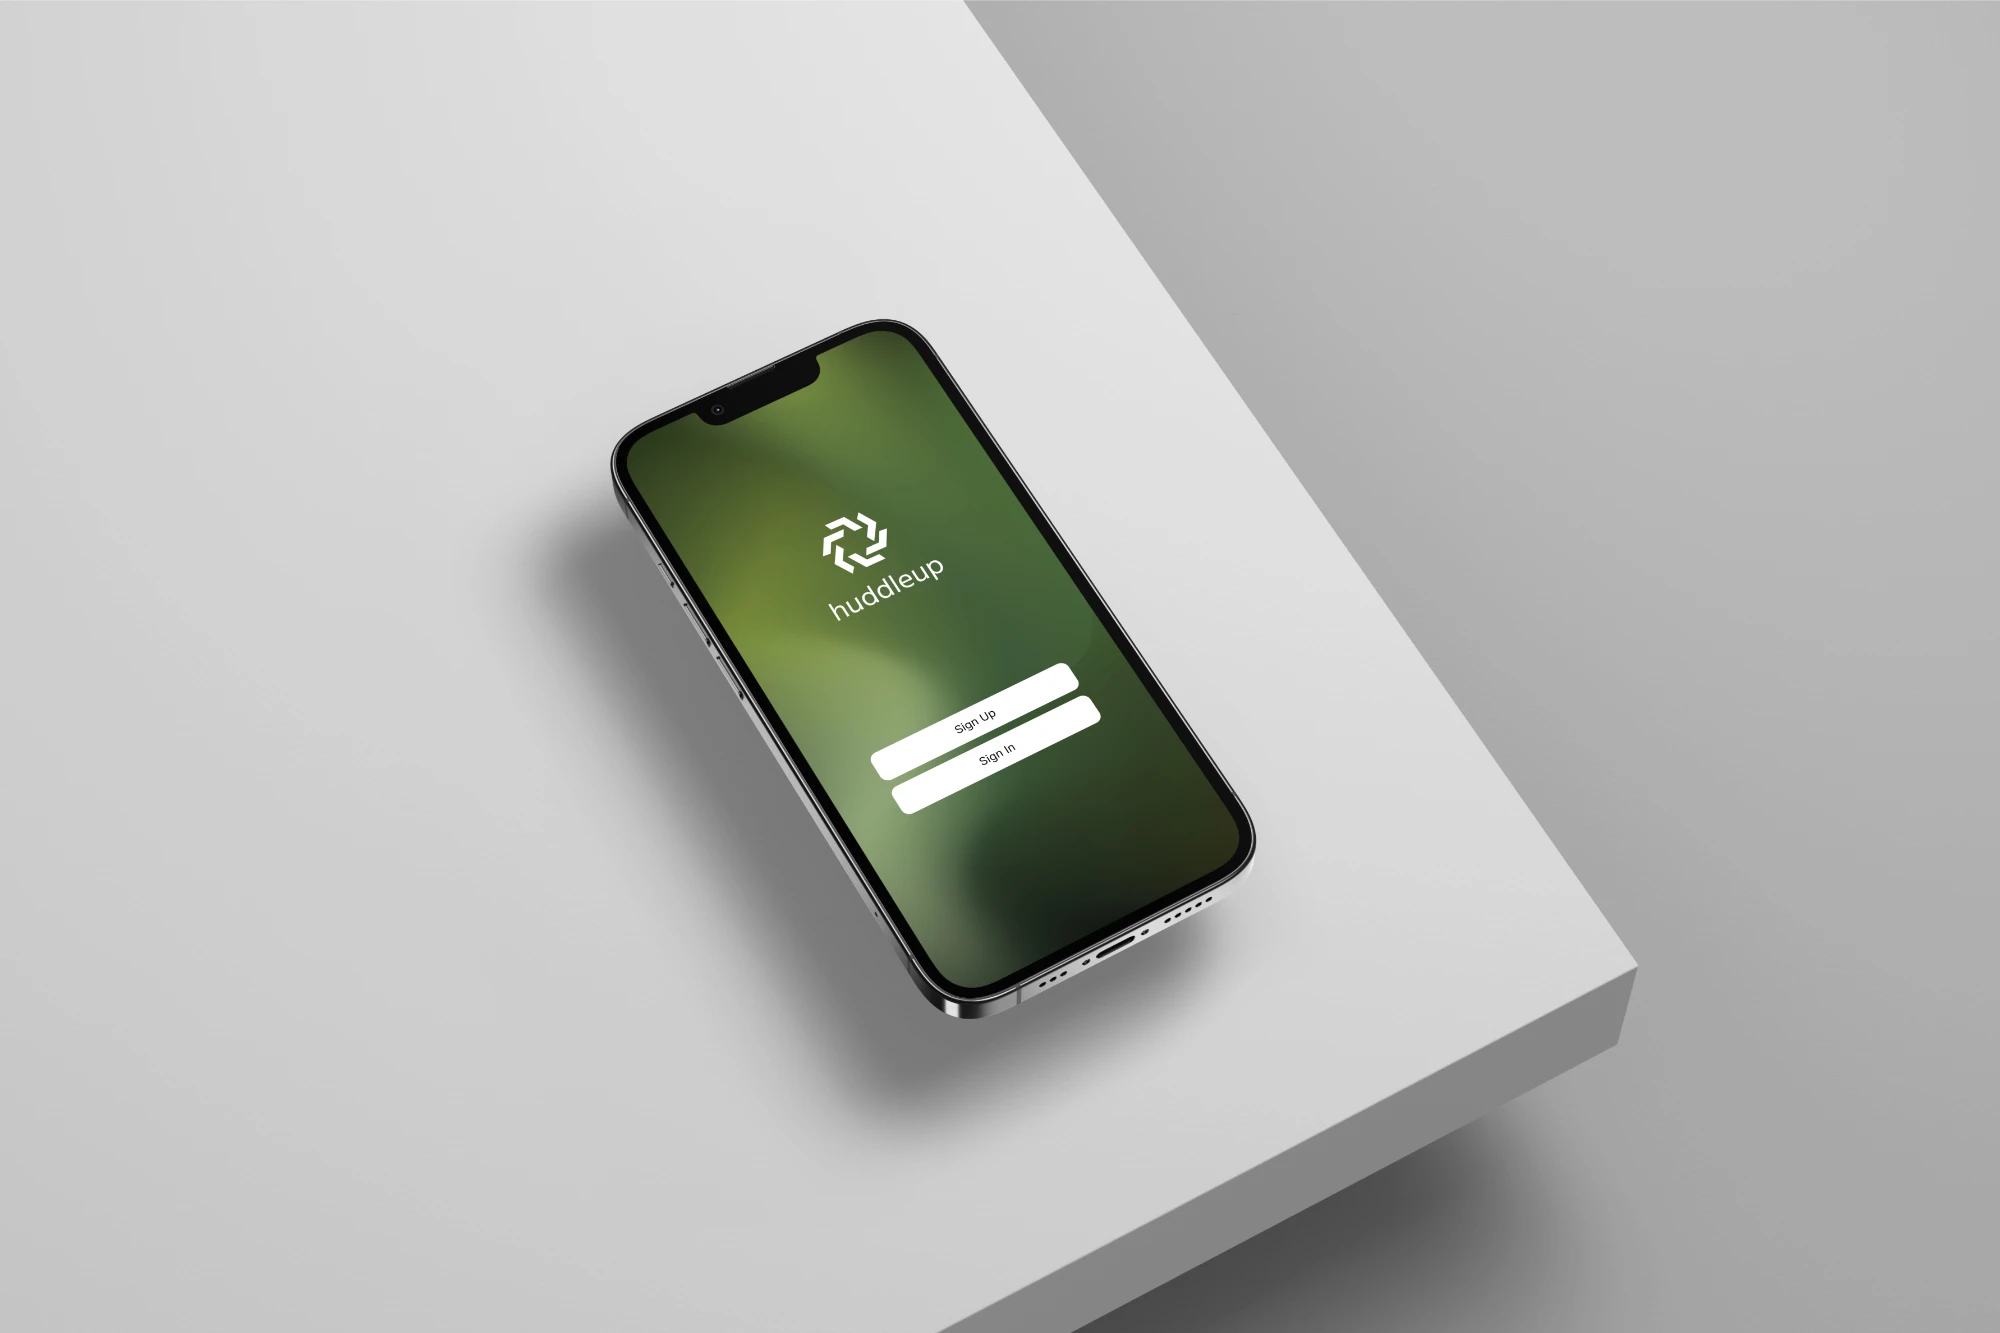
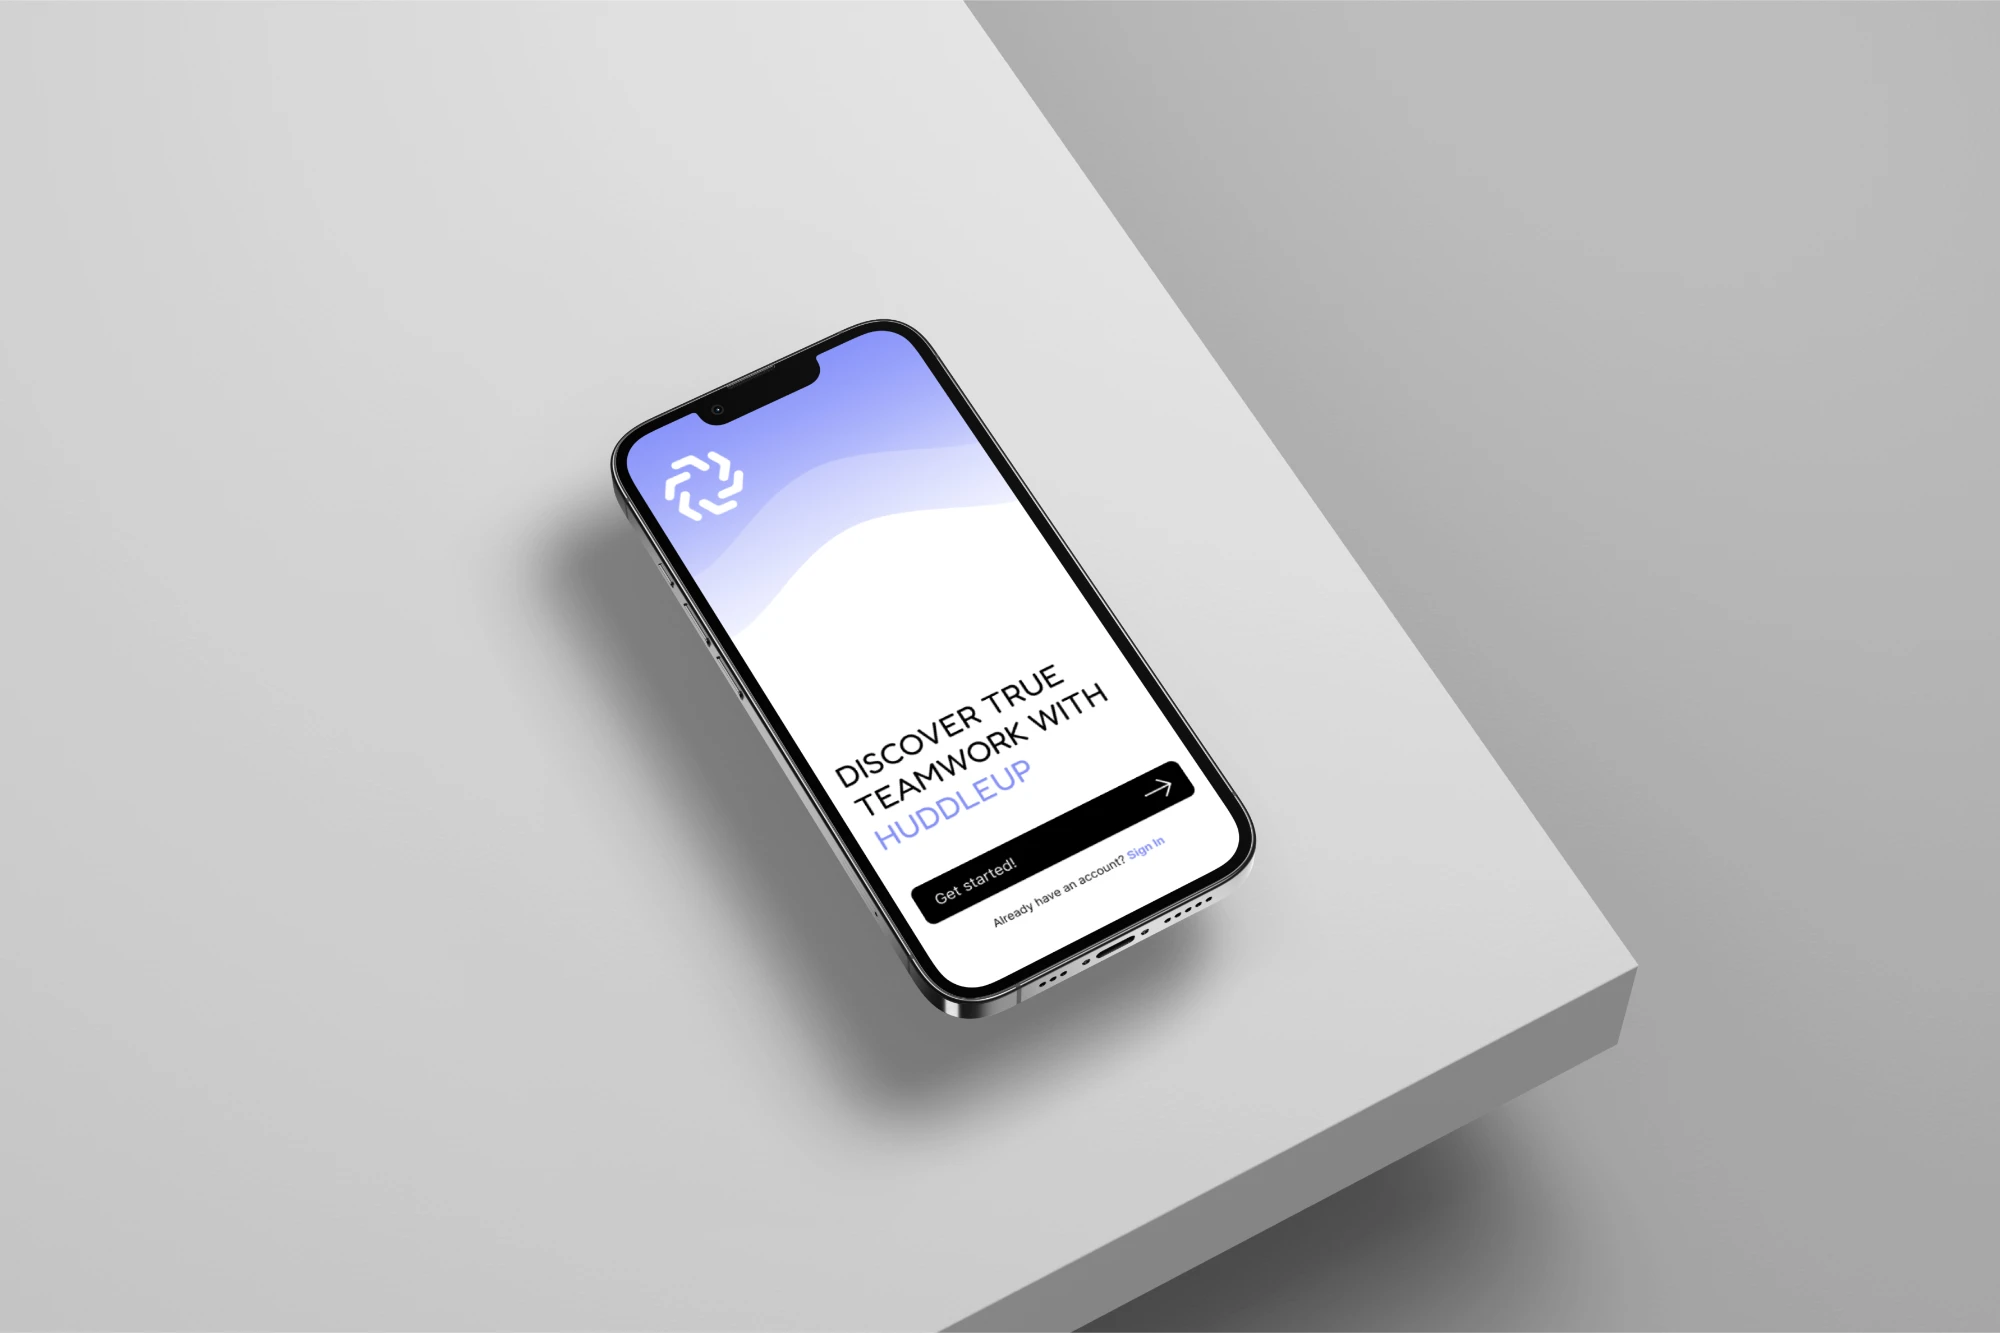
updated case study one

Changed region(s): [[0.31, 0.2461, 0.62, 0.7382]]

diff --git a/src/data/CaseStudies.js b/src/data/CaseStudies.js
@@ -6,7 +6,7 @@ export const pageData = {
     description: "A sports team management application",
     mainImage: "path",
     prototypeLink:
-      "https://www.figma.com/proto/Wosz9hKXRLbQF0hsPrnZM8/HuddleUp?page-id=1%3A2&type=design&node-id=1-72&viewport=227%2C316%2C0.24&t=KY9QDoCMec6krxa2-1&scaling=scale-down&starting-point-node-id=1%3A72&mode=design",
+      "https://www.figma.com/proto/YsCPMtctJFAs1IKpmpxU83/HUDDLEUP-2024?page-id=0%3A1&type=design&node-id=1-1168&viewport=191%2C102%2C0.2&t=i3S3r0iLq10G2Pbv-1&scaling=scale-down&starting-point-node-id=1%3A1168",
     overview: [
       "HuddleUp simplifies sports team management for coaches, players, gym owners, and enthusiasts across various levels, addressing common administrative challenges that can distract from training and enjoying sports. ",
       "Streamlining sports team management is achieved by allowing coaches to effortlessly track attendance, practice hours, and promotions. It also offers user-friendly team calendars to enhance communication and coordination. In essence, this app streamlines the sports experience, reducing administrative hassles and enabling a more focused pursuit of athletic excellence for everyone involved.",

diff --git a/src/components/CaseStudy.js b/src/components/CaseStudy.js
@@ -636,7 +636,7 @@ const Page = ({ content }) => {
 
         <section className="left">
           <div>
-            <h1>PRODUCT GOALS</h1>
+            <h1>WIREFRAMES</h1>
           </div>
 
           <div className="content">
@@ -650,7 +650,7 @@ const Page = ({ content }) => {
           </div>
         </section>
 
-        <section className="right">
+        {/* <section className="right">
           <div className="content">
             <p className="header-number">[ 18 ]</p>
 
@@ -664,15 +664,15 @@ const Page = ({ content }) => {
           <div className="header">
             <h1>TYPOGRAPHY</h1>
           </div>
-        </section>
+        </section> */}
 
         <section className="left">
           <div>
-            <h1>LOW FIDELITY DESIGN</h1>
+            <h1>PROTOTYPE</h1>
           </div>
 
           <div className="content">
-            <p className="header-number">[ 15 ]</p>
+            <p className="header-number">[ 18 ]</p>
             <p className="sub-header">[ CLICK TO VIEW ]</p>
 
             <div className="image-container prototype">

diff --git a/src/styles/components/case-study.scss b/src/styles/components/case-study.scss
@@ -362,7 +362,7 @@
           overflow: hidden;
 
           img {
-            width: 100%;
+            width: 80%;
             height: auto;
           }
         }
